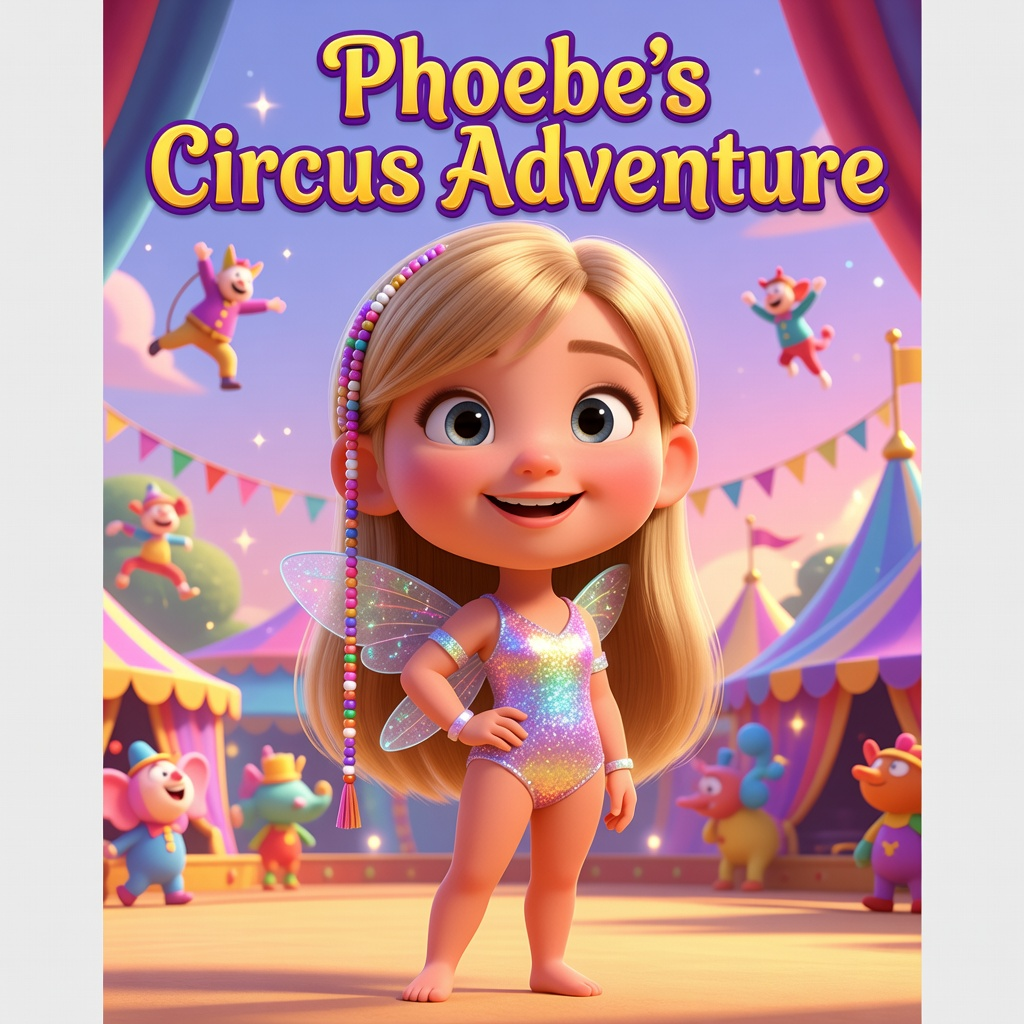
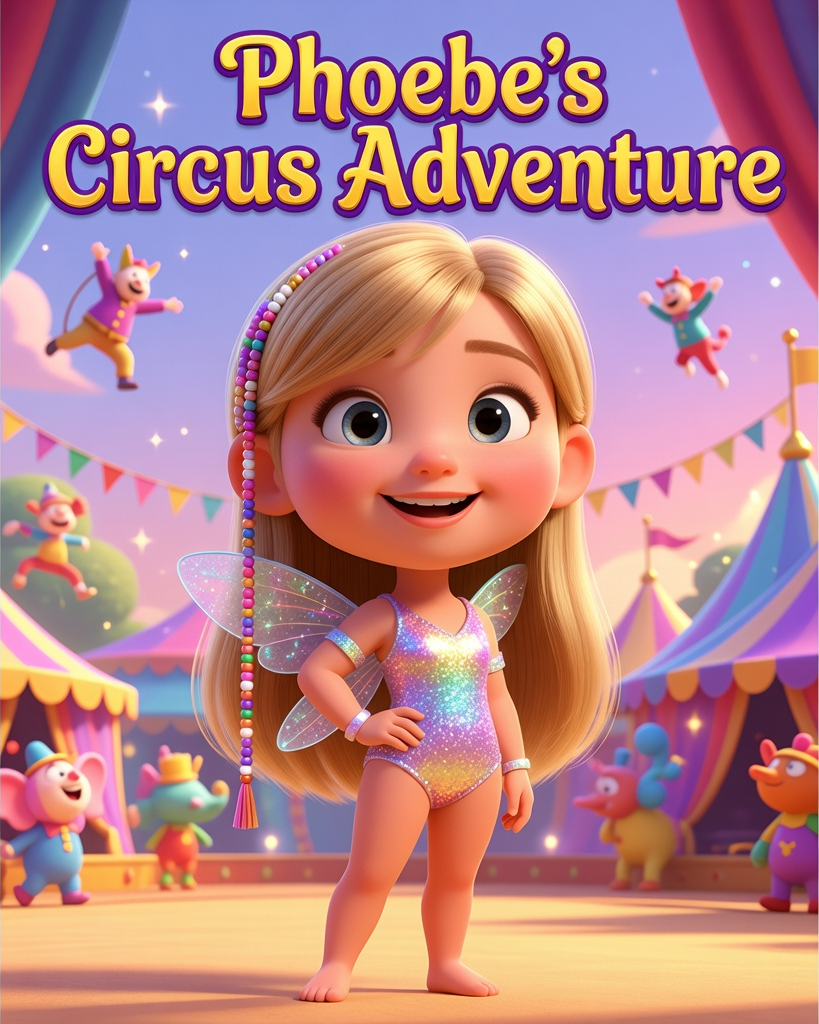
Update generation logic and add assets for storybook reading page
Replit-Commit-Author: Agent

diff --git a/artifacts/api-server/src/lib/generation.ts b/artifacts/api-server/src/lib/generation.ts
@@ -1,5 +1,7 @@
 import path from "path";
 import { writeFile, mkdir } from "fs/promises";
+import { execFile } from "child_process";
+import { promisify } from "util";
 import { eq } from "drizzle-orm";
 import { db, storiesTable, storyPagesTable } from "@workspace/db";
 import { analyzePhoto, generateStoryText, generateImage } from "./grok";
@@ -7,13 +9,53 @@ import { buildCharacterPrompt } from "../routes/character";
 import { logger } from "./logger";
 
 const uploadsDir = path.resolve(process.cwd(), "uploads");
+const execFileAsync = promisify(execFile);
+
+/**
+ * Trim near-white borders that Aurora bakes into generated images.
+ * Uses ImageMagick: detects the border colour from the image corners and
+ * removes any edges within 10% colour distance of it, then re-pads to a
+ * perfect square so the image ratio stays 1:1 for the cover face.
+ */
+async function trimWhiteBorder(buf: Buffer): Promise<Buffer> {
+  try {
+    // Write input to a temp file
+    const tmp = `/tmp/trim-in-${Date.now()}.png`;
+    const out = `/tmp/trim-out-${Date.now()}.png`;
+    await writeFile(tmp, buf);
+
+    // Trim white border (-fuzz 10% tolerates slight off-white shades),
+    // then extent back to a square using the image's longer dimension
+    // so the output is always 1:1 and centred on a white canvas.
+    await execFileAsync("magick", [
+      tmp,
+      "-fuzz", "10%",
+      "-trim",
+      "+repage",
+      out,
+    ]);
+
+    const { readFile, unlink } = await import("fs/promises");
+    const result = await readFile(out);
+    await Promise.all([unlink(tmp).catch(() => {}), unlink(out).catch(() => {})]);
+    return result;
+  } catch (err) {
+    // If trimming fails for any reason, return original buffer unchanged
+    logger.warn({ err }, "trimWhiteBorder failed — using original image");
+    return buf;
+  }
+}
 
 async function saveImage(buf: Buffer, subdir: string): Promise<string> {
   const dir = path.join(uploadsDir, subdir);
   await mkdir(dir, { recursive: true });
   const filename = `${Date.now()}-${Math.random().toString(36).slice(2)}.png`;
   const fullPath = path.join(dir, filename);
-  await writeFile(fullPath, buf);
+  // Trim white borders from Aurora-generated cover and character images
+  const processed = (subdir === "covers" || subdir === "characters")
+    ? await trimWhiteBorder(buf)
+    : buf;
+  await writeFile(fullPath, processed);
   return path.join(subdir, filename);
 }
 

diff --git a/artifacts/mystorybook/src/pages/read.tsx b/artifacts/mystorybook/src/pages/read.tsx
@@ -498,7 +498,7 @@ function PortraitCover({ story }: { story: any }) {
             src={story.coverImageUrl}
             alt={story.title}
             className="absolute inset-0 w-full h-full"
-            style={{ objectFit: 'fill' }}
+            style={{ objectFit: 'cover', objectPosition: 'top center' }}
             data-testid="img-cover"
             draggable={false}
           />
@@ -623,7 +623,7 @@ function LandscapeCover({ story }: { story: any }) {
           {story.coverImageUrl ? (
             <img src={story.coverImageUrl} alt={story.title}
               className="absolute inset-0 w-full h-full"
-              style={{ objectFit: 'fill' }}
+              style={{ objectFit: 'cover', objectPosition: 'top center' }}
               data-testid="img-cover-ls" draggable={false} />
           ) : (
             <div className="absolute inset-0 bg-gradient-to-br from-amber-900 to-amber-700 flex items-center justify-center">
@@ -723,7 +723,7 @@ function LandscapeCoverFolding({ story, firstPage, flipPhase, swipeDx }: any) {
               {story.coverImageUrl ? (
                 <img src={story.coverImageUrl} alt={story.title}
                   className="absolute inset-0 w-full h-full"
-                  style={{ objectFit: 'fill' }}
+                  style={{ objectFit: 'cover', objectPosition: 'top center' }}
                   draggable={false} />
               ) : (
                 <div className="absolute inset-0 bg-gradient-to-br from-amber-900 to-amber-700 flex items-center justify-center">
